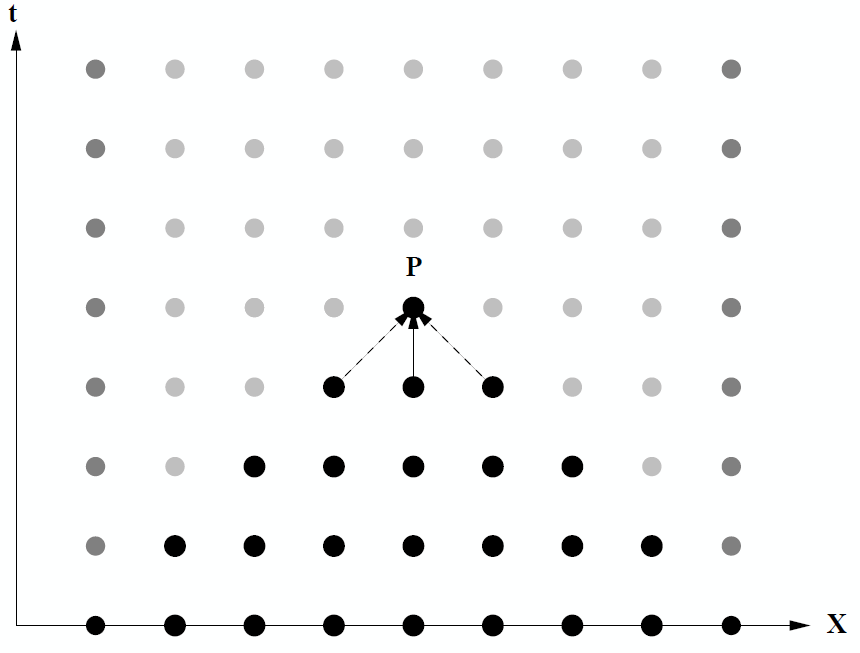
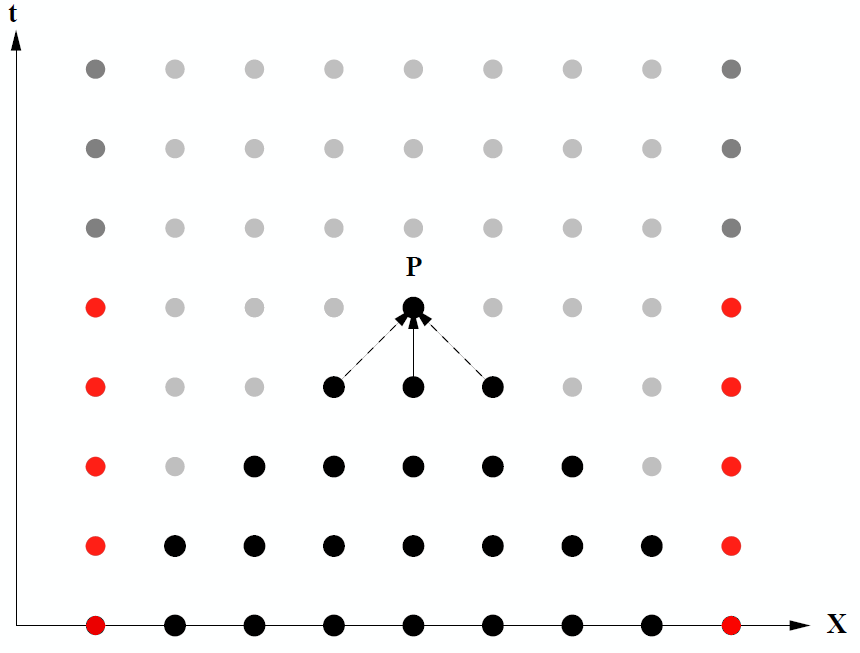
FDM parabolisch

diff --git a/Content/Numerik/Numerik.tex b/Content/Numerik/Numerik.tex
@@ -239,11 +239,8 @@ Dies macht es nötig, die Zeitschritte extrem klein zu wählen. Darum ist das Ve
 
 Der Grund für das schlechte Konvergenzverhalten kann geometrisch visualisiert werden. In die Berechnung des Wertes im Knoten $P$, werden die Werte aller schwarz eingefärbter Knoten eingehen. Von den Randwerten wird nur die 0-te Stufe berücksichtigt.
 \end{minipage}
-
-
-
-
-
+Damit das Verfahren mit $C^k$ für k-Schritte berechnet werden kann, müssen die
+rot eingefärbten Werte (links und rechts) gleich 0 sein (Boundary Condition).
 
 \subsubsection{Implizites Verfahren}
 Im Unterschied zum expliziten Verfahren, das Werte vom vorherigen Zeitpunkt nutzt, wird hier das ein Gleichungssystem global gelöst.\\
